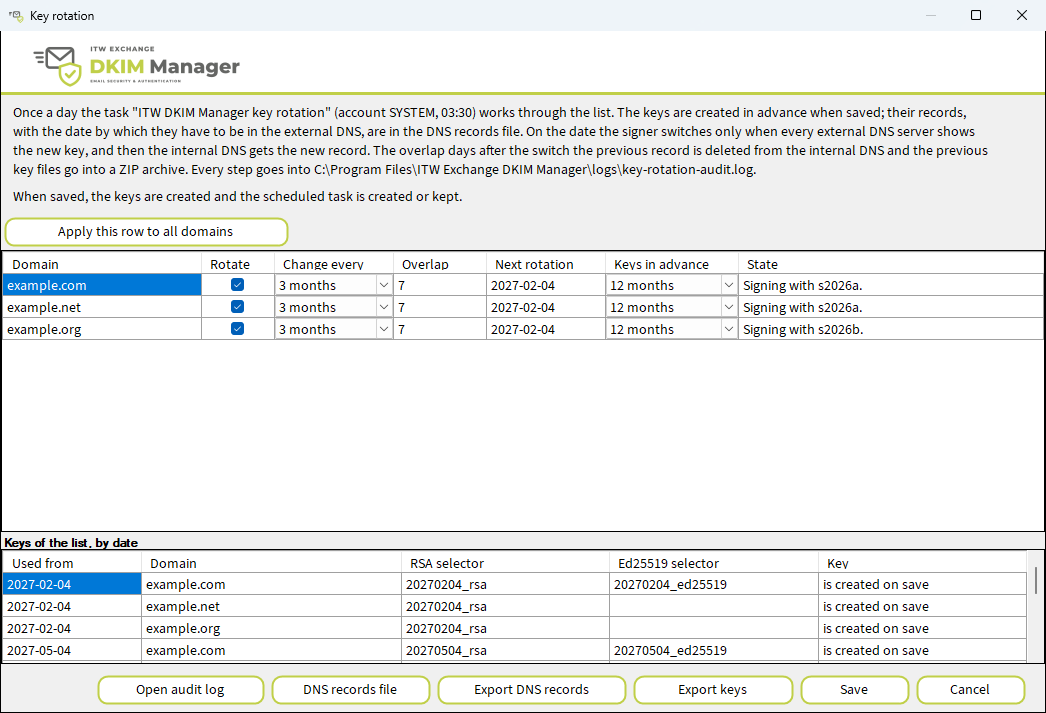
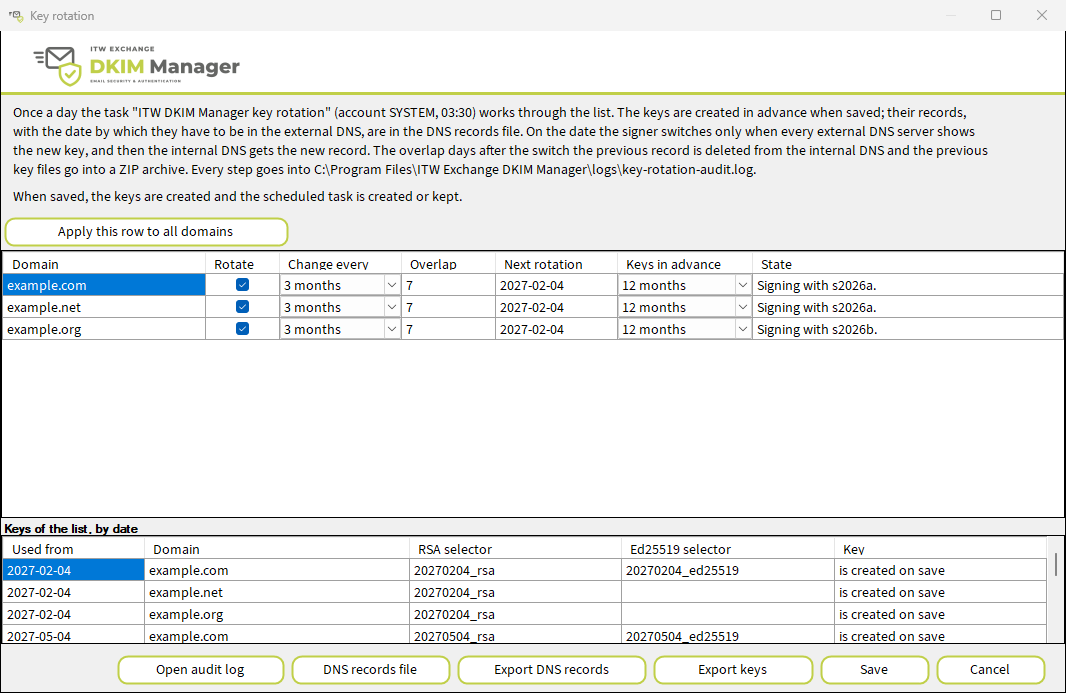
Screenshots of every window with sample data

diff --git a/README.md b/README.md
@@ -40,13 +40,128 @@ and manages domains, keys, DNS records, statistics and logs.
 
 ## Screenshots
 
-Sample data.
+All screenshots show sample data.
 
 ![Configuration of domains and keys](https://raw.githubusercontent.com/it-world/Exchange_Dkim_Manager/master/screenshots/configuration.png)
 
 ![Statistics with evaluation per period](https://raw.githubusercontent.com/it-world/Exchange_Dkim_Manager/master/screenshots/statistics.png)
 
 ![Automatic key rotation](https://raw.githubusercontent.com/it-world/Exchange_Dkim_Manager/master/screenshots/key-rotation.png)
+
+<details>
+<summary><b>All other windows</b></summary>
+
+### Main window
+
+**Status**
+
+![Status](https://raw.githubusercontent.com/it-world/Exchange_Dkim_Manager/master/screenshots/status.png)
+
+**Advanced Configuration**
+
+![Advanced Configuration](https://raw.githubusercontent.com/it-world/Exchange_Dkim_Manager/master/screenshots/advanced-configuration.png)
+
+**Sync**
+
+![Sync](https://raw.githubusercontent.com/it-world/Exchange_Dkim_Manager/master/screenshots/sync.png)
+
+**Log**
+
+![Log](https://raw.githubusercontent.com/it-world/Exchange_Dkim_Manager/master/screenshots/log.png)
+
+**About**
+
+![About](https://raw.githubusercontent.com/it-world/Exchange_Dkim_Manager/master/screenshots/about.png)
+
+### Keys, DNS and ARC
+
+**DKIM Header Configuration**
+
+![DKIM Header Configuration](https://raw.githubusercontent.com/it-world/Exchange_Dkim_Manager/master/screenshots/dkim-header-configuration.png)
+
+**ARC configuration**
+
+![ARC configuration](https://raw.githubusercontent.com/it-world/Exchange_Dkim_Manager/master/screenshots/arc-configuration.png)
+
+**External DNS check**
+
+![External DNS check](https://raw.githubusercontent.com/it-world/Exchange_Dkim_Manager/master/screenshots/external-dns-check.png)
+
+**Check DNS of all domains**
+
+![Check DNS of all domains](https://raw.githubusercontent.com/it-world/Exchange_Dkim_Manager/master/screenshots/dns-check-all-domains.png)
+
+**Active Directory DNS**
+
+![Active Directory DNS](https://raw.githubusercontent.com/it-world/Exchange_Dkim_Manager/master/screenshots/ad-dns-settings.png)
+
+**Administrator account**
+
+![Administrator account](https://raw.githubusercontent.com/it-world/Exchange_Dkim_Manager/master/screenshots/administrator-account.png)
+
+**Create DNS admin user**
+
+![Create DNS admin user](https://raw.githubusercontent.com/it-world/Exchange_Dkim_Manager/master/screenshots/create-dns-admin-user.png)
+
+### Statistics and notifications
+
+**Domain Statistics**
+
+![Domain Statistics](https://raw.githubusercontent.com/it-world/Exchange_Dkim_Manager/master/screenshots/domain-statistics.png)
+
+**PDF report**
+
+![PDF report](https://raw.githubusercontent.com/it-world/Exchange_Dkim_Manager/master/screenshots/pdf-report.png)
+
+**E-mail notifications**
+
+![E-mail notifications](https://raw.githubusercontent.com/it-world/Exchange_Dkim_Manager/master/screenshots/email-notifications.png)
+
+**OpenTelemetry (OTLP)**
+
+![OpenTelemetry](https://raw.githubusercontent.com/it-world/Exchange_Dkim_Manager/master/screenshots/opentelemetry.png)
+
+### Operation
+
+**Transport Agent**
+
+![Transport Agent](https://raw.githubusercontent.com/it-world/Exchange_Dkim_Manager/master/screenshots/transport-agent.png)
+
+**Earlier releases**
+
+![Earlier releases](https://raw.githubusercontent.com/it-world/Exchange_Dkim_Manager/master/screenshots/earlier-releases.png)
+
+**Backup**
+
+![Backup](https://raw.githubusercontent.com/it-world/Exchange_Dkim_Manager/master/screenshots/backup.png)
+
+**Support information**
+
+![Support information](https://raw.githubusercontent.com/it-world/Exchange_Dkim_Manager/master/screenshots/support-information.png)
+
+**Help**
+
+![Help](https://raw.githubusercontent.com/it-world/Exchange_Dkim_Manager/master/screenshots/help.png)
+
+### License and installation
+
+**License acceptance**
+
+![License acceptance](https://raw.githubusercontent.com/it-world/Exchange_Dkim_Manager/master/screenshots/license-acceptance.png)
+
+**Installation**
+
+![Installation](https://raw.githubusercontent.com/it-world/Exchange_Dkim_Manager/master/screenshots/installation.png)
+
+**License**
+
+![License](https://raw.githubusercontent.com/it-world/Exchange_Dkim_Manager/master/screenshots/license.png)
+
+**Terms of use**
+
+![Terms of use](https://raw.githubusercontent.com/it-world/Exchange_Dkim_Manager/master/screenshots/terms-of-use.png)
+
+</details>
 
 ## Features
 
